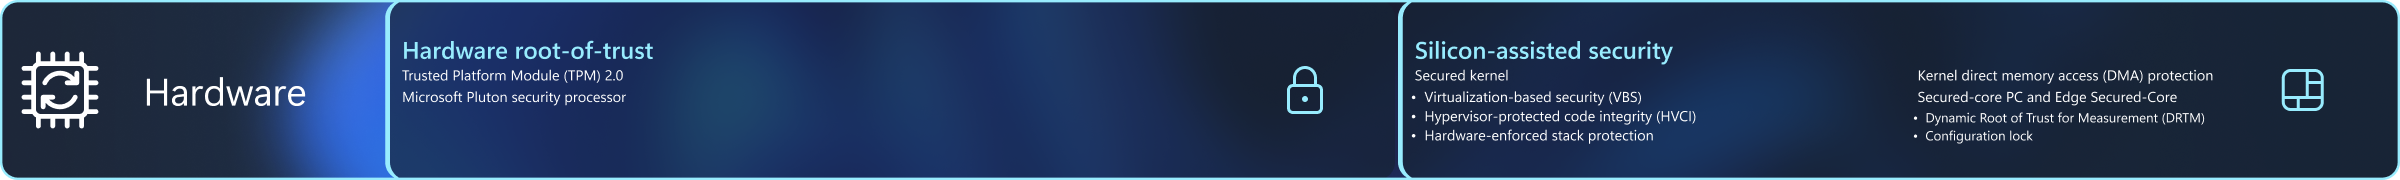
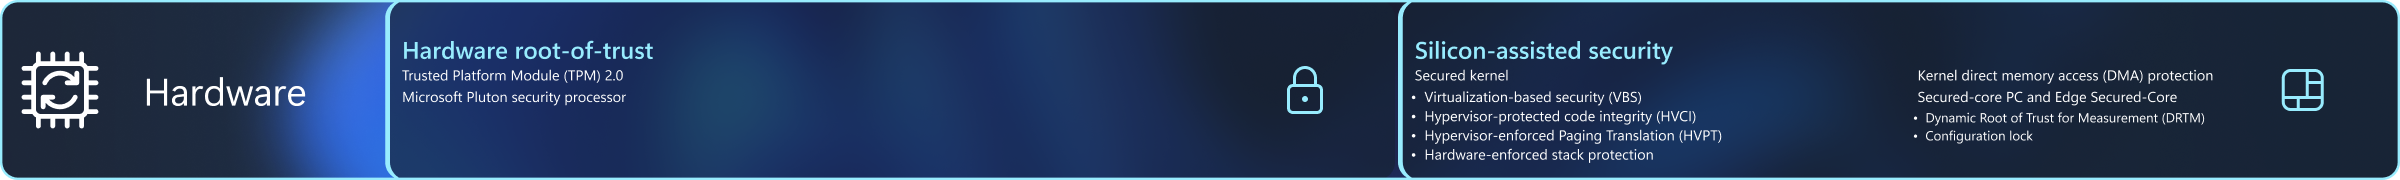
updates

Changed region(s): [[0.5938, 0.7222, 0.7188, 0.8056], [0.5938, 0.8333, 0.6875, 0.8889]]

diff --git a/windows/security/book/hardware-security-silicon-assisted-security.md b/windows/security/book/hardware-security-silicon-assisted-security.md
@@ -42,15 +42,15 @@ With new installs of Windows 11, OS support for VBS and HVCI is turned on by def
 
 - [Enable virtualization-based protection of code integrity][LINK-2]
 
+### :::image type="icon" source="images/new-button-title.svg" border="false"::: Hypervisor-enforced Paging Translation (HVPT)
+
+Hypervisor-enforced Paging Translation (HVPT) is a security enhancement to enforce the integrity of guest virtual address to guest physical address translations. HVPT helps protect critical system data from write-what-where attacks where the attacker can write an arbitrary value to an arbitrary location often as the result of a buffer overflow. HVPT helps to protect page tables that configure critical system data structures.
+
 ### Hardware-enforced stack protection
 
 Hardware-enforced stack protection integrates software and hardware for a modern defense against cyberthreats like memory corruption and zero-day exploits. Based on Control-flow Enforcement Technology (CET) from Intel and AMD Shadow Stacks, hardware-enforced stack protection is designed to protect against exploit techniques that try to hijack return addresses on the stack.
 
 Application code includes a program processing stack that hackers seek to corrupt or disrupt in a type of attack called *stack smashing*. When defenses like executable space protection began thwarting such attacks, hackers turned to new methods like return-oriented programming. Return-oriented programming, a form of advanced stack smashing, can bypass defenses, hijack the data stack, and ultimately force a device to perform harmful operations. To guard against these control-flow hijacking attacks, the Windows kernel creates a separate *shadow stack* for return addresses. Windows 11 extends stack protection capabilities to provide both user mode and kernel mode support.
-
-[!INCLUDE [new-24h2](includes/new-24h2.md)]
-
-Hypervisor-enforced Paging Translation (HVPT) is a security enhancement to enforce the integrity of guest virtual address to guest physical address translations. HVPT helps protect critical system data from write-what-where attacks where the attacker can write an arbitrary value to an arbitrary location often as the result of a buffer overflow. HVPT helps to protect page tables that configure critical system data structures.
 
 [!INCLUDE [learn-more](includes/learn-more.md)]
 
